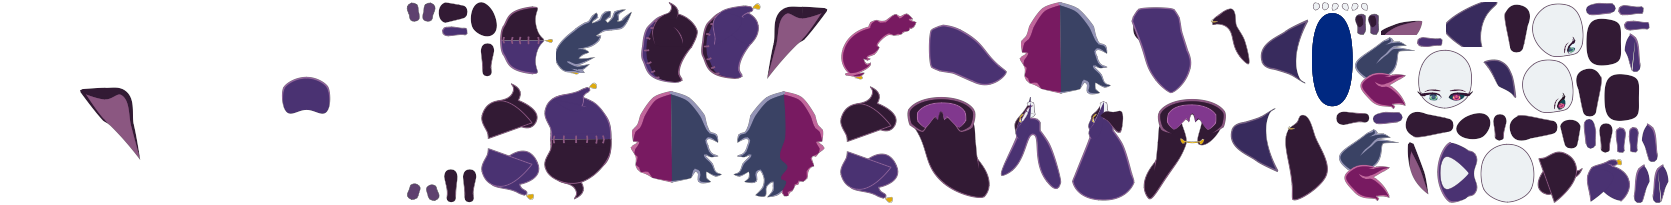
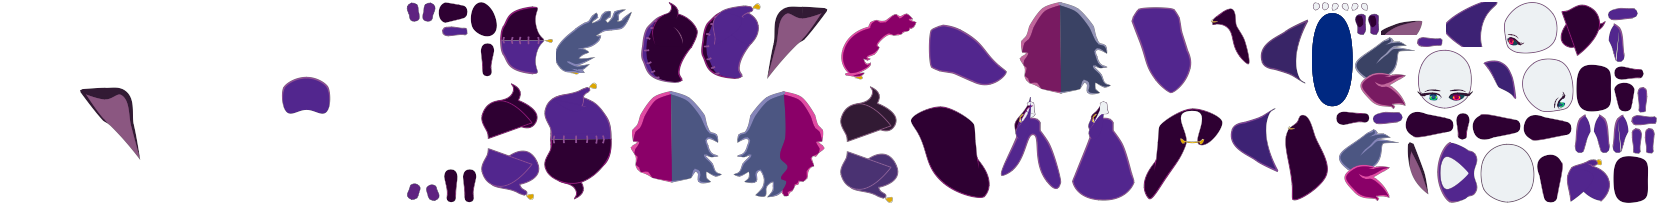
Fixed NPC animations. Changed colours.

diff --git a/SoR/Logic/Character/Movement.cs b/SoR/Logic/Character/Movement.cs
@@ -163,16 +163,14 @@ namespace SoR.Logic.Character
         /*
          * Animate NPC redirection.
          */
-        public void RedirectAnimation(int newDirection)
+        public virtual void RedirectAnimation(int newDirection)
         {
             switch (newDirection)
             {
                 case 1:
-                    movementAnimation = "run";
                     GetSkeleton().ScaleX = 1;
                     break;
                 case 2:
-                    movementAnimation = "run";
                     GetSkeleton().ScaleX = -1;
                     break;
             }
@@ -208,6 +206,7 @@ namespace SoR.Logic.Character
                 {
                     prevDirection = direction;
                     newDirection = random.Next(4);
+                    movementAnimation = "run";
                     NewDirection(newDirection);
                     newDirectionTime = (float)random.NextDouble() * 3f + 0.33f;
                     sinceLastChange = 0;

diff --git a/SoR/Logic/Character/Entity.cs b/SoR/Logic/Character/Entity.cs
@@ -94,6 +94,7 @@ namespace SoR.Logic.Character
 
             if (prevTrigger != eventTrigger && animations.TryGetValue(eventTrigger, out int animType))
             {
+                animTwo = defaultAnim;
                 prevTrigger = animOne = reaction = eventTrigger;
                 React(reaction, animType);
             }
@@ -134,7 +135,7 @@ namespace SoR.Logic.Character
                         }
                         else // Otherwise, add next to start on frame current anim finished on.
                         {
-                            trackEntry = animState.AddAnimation(0, animOne, true, -trackEntry.TrackTime);
+                            trackEntry = animState.AddAnimation(0, animOne, true, trackEntry.TrackTime);
                         }
                         break;
                 }

diff --git a/SoR/Logic/Character/Mobs/Fishy.cs b/SoR/Logic/Character/Mobs/Fishy.cs
@@ -78,5 +78,23 @@ namespace SoR.Logic.Character.Mobs
 
             ImpassableArea = impassableArea;
         }
+
+        /*
+         * Animate NPC redirection.
+         */
+        public override void RedirectAnimation(int newDirection)
+        {
+            switch (newDirection)
+            {
+                case 1:
+                    movementAnimation = "idle";
+                    GetSkeleton().ScaleX = 1;
+                    break;
+                case 2:
+                    movementAnimation = "idle";
+                    GetSkeleton().ScaleX = -1;
+                    break;
+            }
+        }
     }
 }

diff --git a/SoR/Logic/Character/Mobs/Slime.cs b/SoR/Logic/Character/Mobs/Slime.cs
@@ -81,5 +81,23 @@ namespace SoR.Logic.Character.Mobs
 
             ImpassableArea = impassableArea;
         }
+
+        /*
+         * Animate NPC redirection.
+         */
+        public override void RedirectAnimation(int newDirection)
+        {
+            switch (newDirection)
+            {
+                case 1:
+                    movementAnimation = "idle";
+                    GetSkeleton().ScaleX = 1;
+                    break;
+                case 2:
+                    movementAnimation = "idle";
+                    GetSkeleton().ScaleX = -1;
+                    break;
+            }
+        }
     }
 }

diff --git a/SoR/Logic/Character/Player/Player.cs b/SoR/Logic/Character/Player/Player.cs
@@ -47,7 +47,7 @@ namespace SoR.Logic.Character.Player
             atlas = new Atlas(Globals.GetResourcePath("Content\\SoR Resources\\Entities\\Player\\MC3.atlas"), new XnaTextureLoader(GraphicsDevice));
             atlasAttachmentLoader = new AtlasAttachmentLoader(atlas);
             json = new SkeletonJson(atlasAttachmentLoader);
-            json.Scale = 0.5f;
+            json.Scale = 0.3f;
 
             // Initialise skeleton json
             skeletonData = json.ReadSkeletonData(Globals.GetResourcePath("Content\\SoR Resources\\Entities\\Player\\skeleton.json"));
